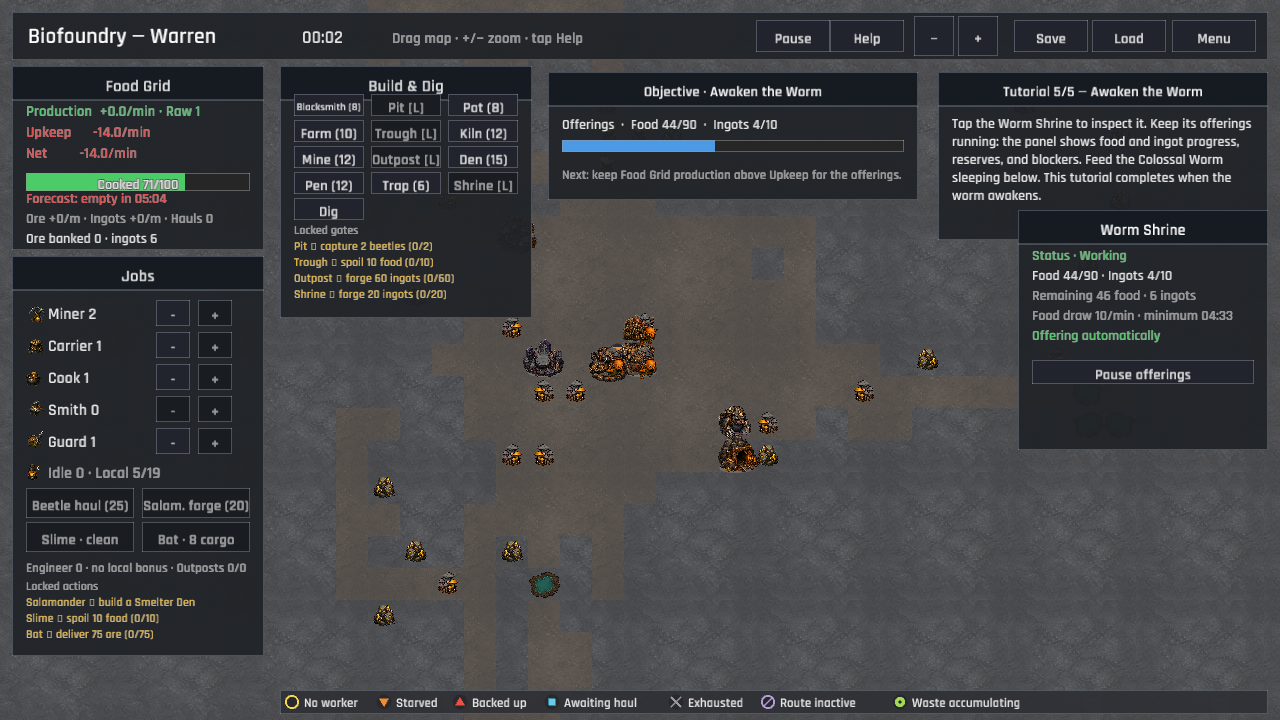
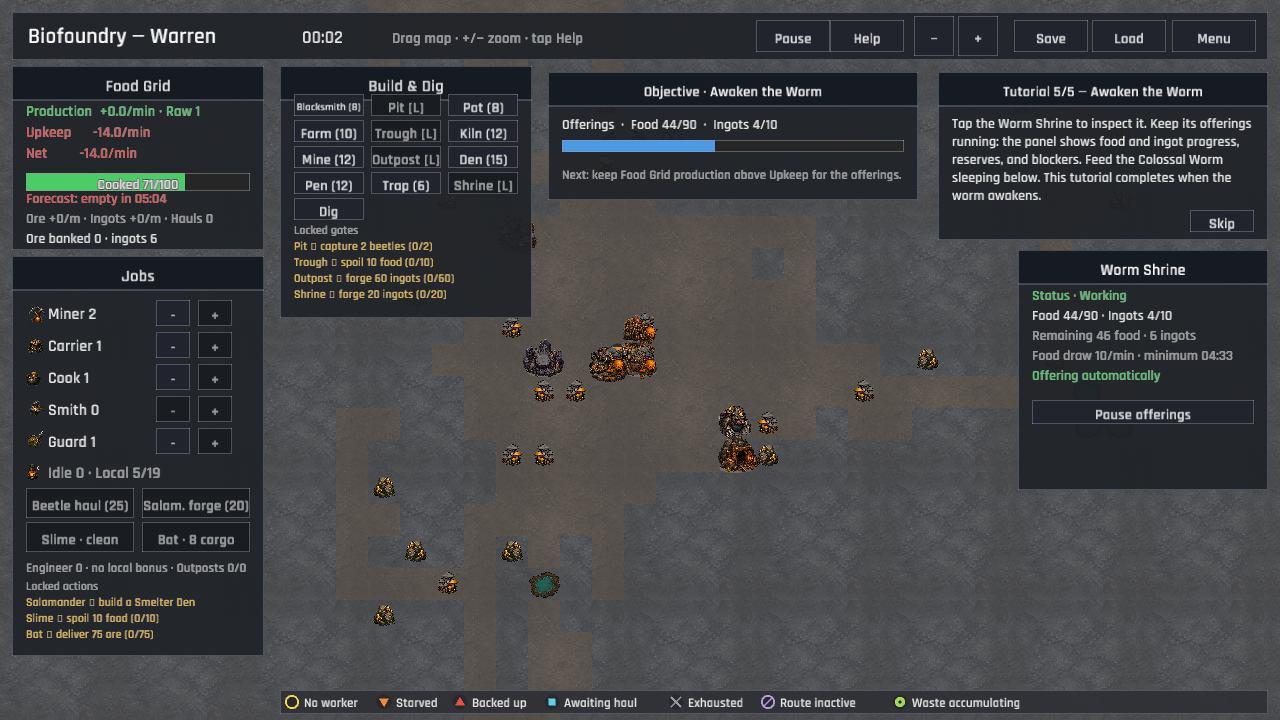
The Shrine waits below the lesson's final tap (tutorial layout, P1 touch-first controls)
The expanded tutorial card pushed the selected Worm Shrine inspection card into the lesson's final action area. Inspection panels now receive their top edge from the visible tutorial card and keep a deliberate gap, while the no-tutorial layout retains its established position. The regression test and refreshed canonical capture document the reachable Skip control.

Changed region(s): [[0.7812, 0.3056, 1.0, 0.7028]]

diff --git a/src/ui/hud.rs b/src/ui/hud.rs
@@ -115,8 +115,10 @@ pub fn draw(
     panels::draw_tools_panel(session, data, tools_panel, mode, mouse, &mut actions);
     let tutorial_panel = panels::draw_tutorial_panel(session, data, mouse, &mut actions);
     let objective_panel = panels::draw_objective_panel(session, data);
-    let inspect_panel = selected
-        .and_then(|pos| inspect::draw_inspect_panel(session, data, pos, mouse, &mut actions));
+    let inspect_top = inspect_panel_top(tutorial_panel);
+    let inspect_panel = selected.and_then(|pos| {
+        inspect::draw_inspect_panel(session, data, pos, inspect_top, mouse, &mut actions)
+    });
 
     // A status-icon legend, shown only while some node is stalled — it
     // teaches the in-world badges exactly when they matter.
@@ -296,6 +298,10 @@ fn interaction_point(ui: &VirtualUi, mouse: Vec2, touch_position: Option<Vec2>) 
     touch_position
         .and_then(|position| ui.screen_to_ui_checked(position))
         .unwrap_or(mouse)
+}
+
+fn inspect_panel_top(tutorial_panel: Option<Rect>) -> f32 {
+    tutorial_panel.map_or(210.0, |panel| panel.y + panel.h + 10.0)
 }
 
 #[cfg(test)]

diff --git a/src/ui/hud/tests.rs b/src/ui/hud/tests.rs
@@ -30,6 +30,14 @@ fn panels_claim_scaled_button_margins_before_world_input() {
 }
 
 #[test]
+fn inspection_card_moves_below_the_tutorial_card() {
+    let tutorial = Rect::new(938.0, 72.0, 330.0, 168.0);
+
+    assert_eq!(inspect_panel_top(Some(tutorial)), 250.0);
+    assert_eq!(inspect_panel_top(None), 210.0);
+}
+
+#[test]
 fn touch_release_position_can_claim_hud_when_mouse_is_elsewhere() {
     let ui = VirtualUi::from_screen_size(1280.0, 720.0, 1440.0, 900.0);
     let touch_screen = ui.ui_to_screen(vec2(50.0, 30.0));

diff --git a/src/ui/hud/inspect.rs b/src/ui/hud/inspect.rs
@@ -32,6 +32,7 @@ pub(super) fn draw_inspect_panel(
     session: &GameSession,
     data: &GameData,
     pos: TilePos,
+    top: f32,
     mouse: Vec2,
     actions: &mut Vec<UiAction>,
 ) -> Option<Rect> {
@@ -48,7 +49,7 @@ pub(super) fn draw_inspect_panel(
         "outpost" => 270.0,
         _ => 152.0,
     };
-    let panel = Rect::new(LOGICAL_WIDTH - 262.0, 210.0, 250.0, height);
+    let panel = Rect::new(LOGICAL_WIDTH - 262.0, top, 250.0, height);
     draw_surface_with_title(
         panel,
         Some(name),
